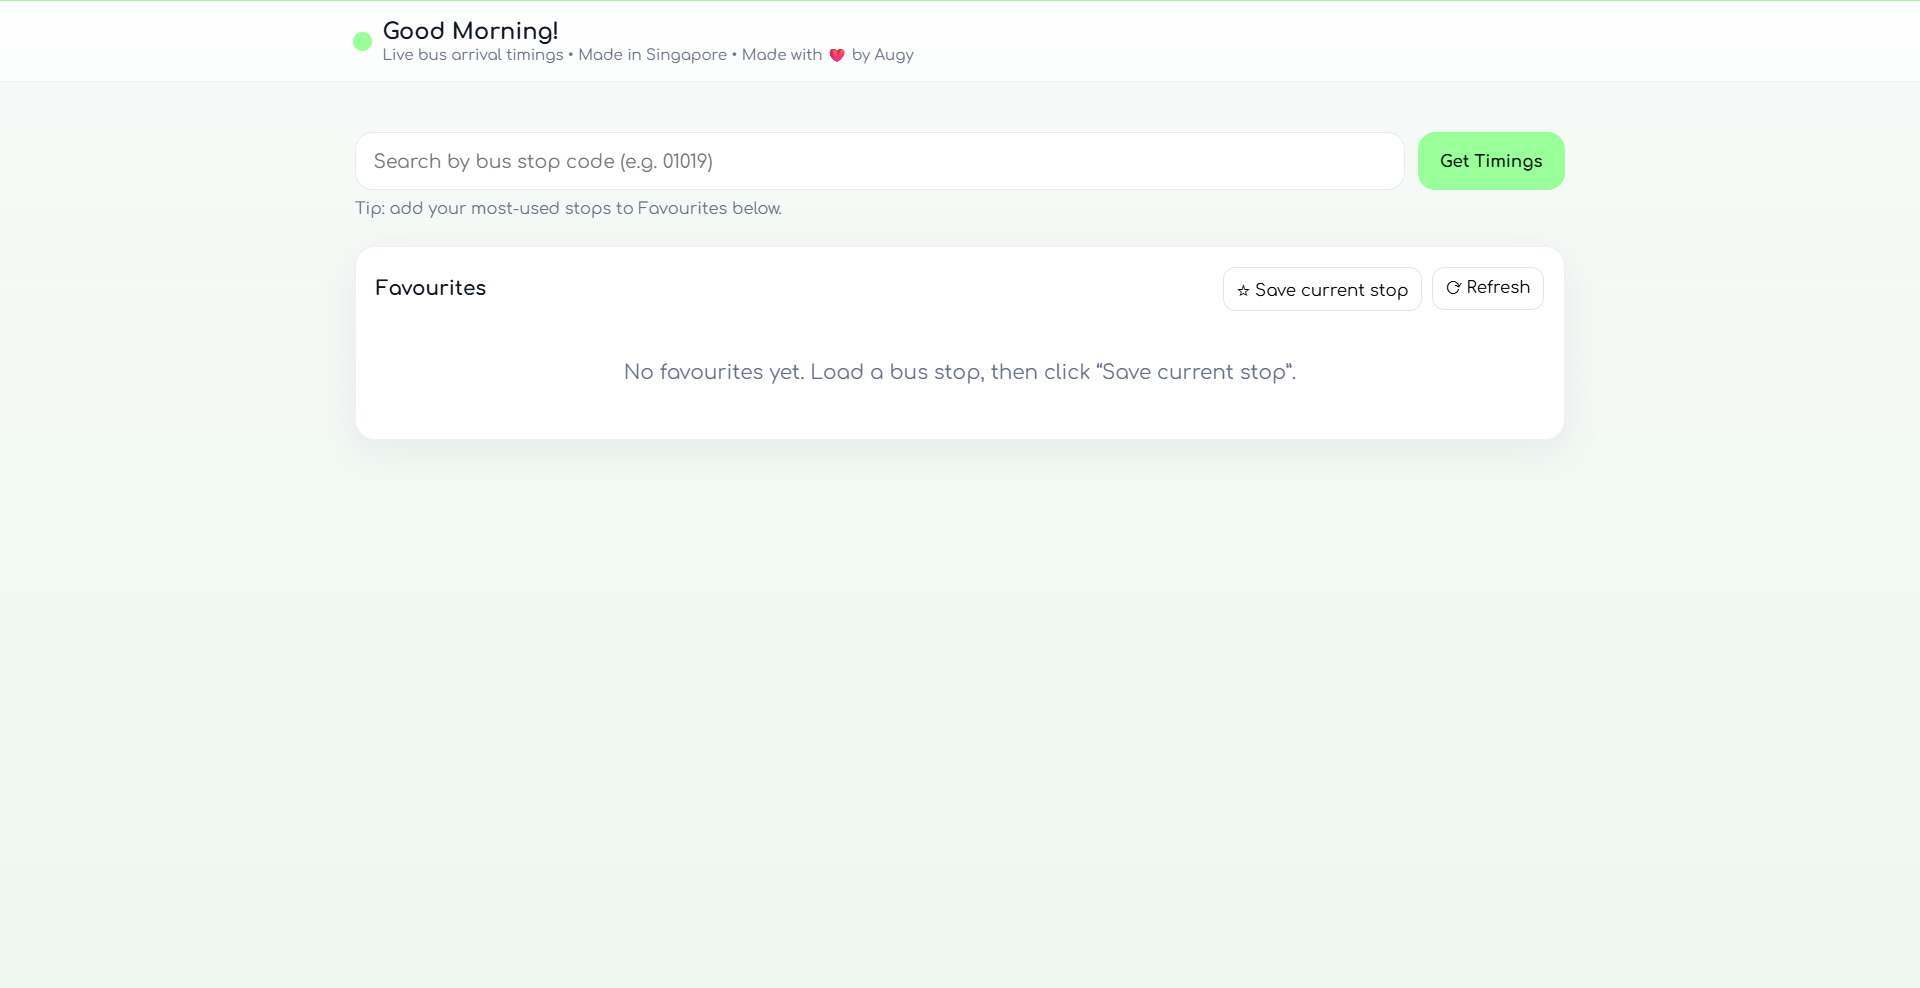
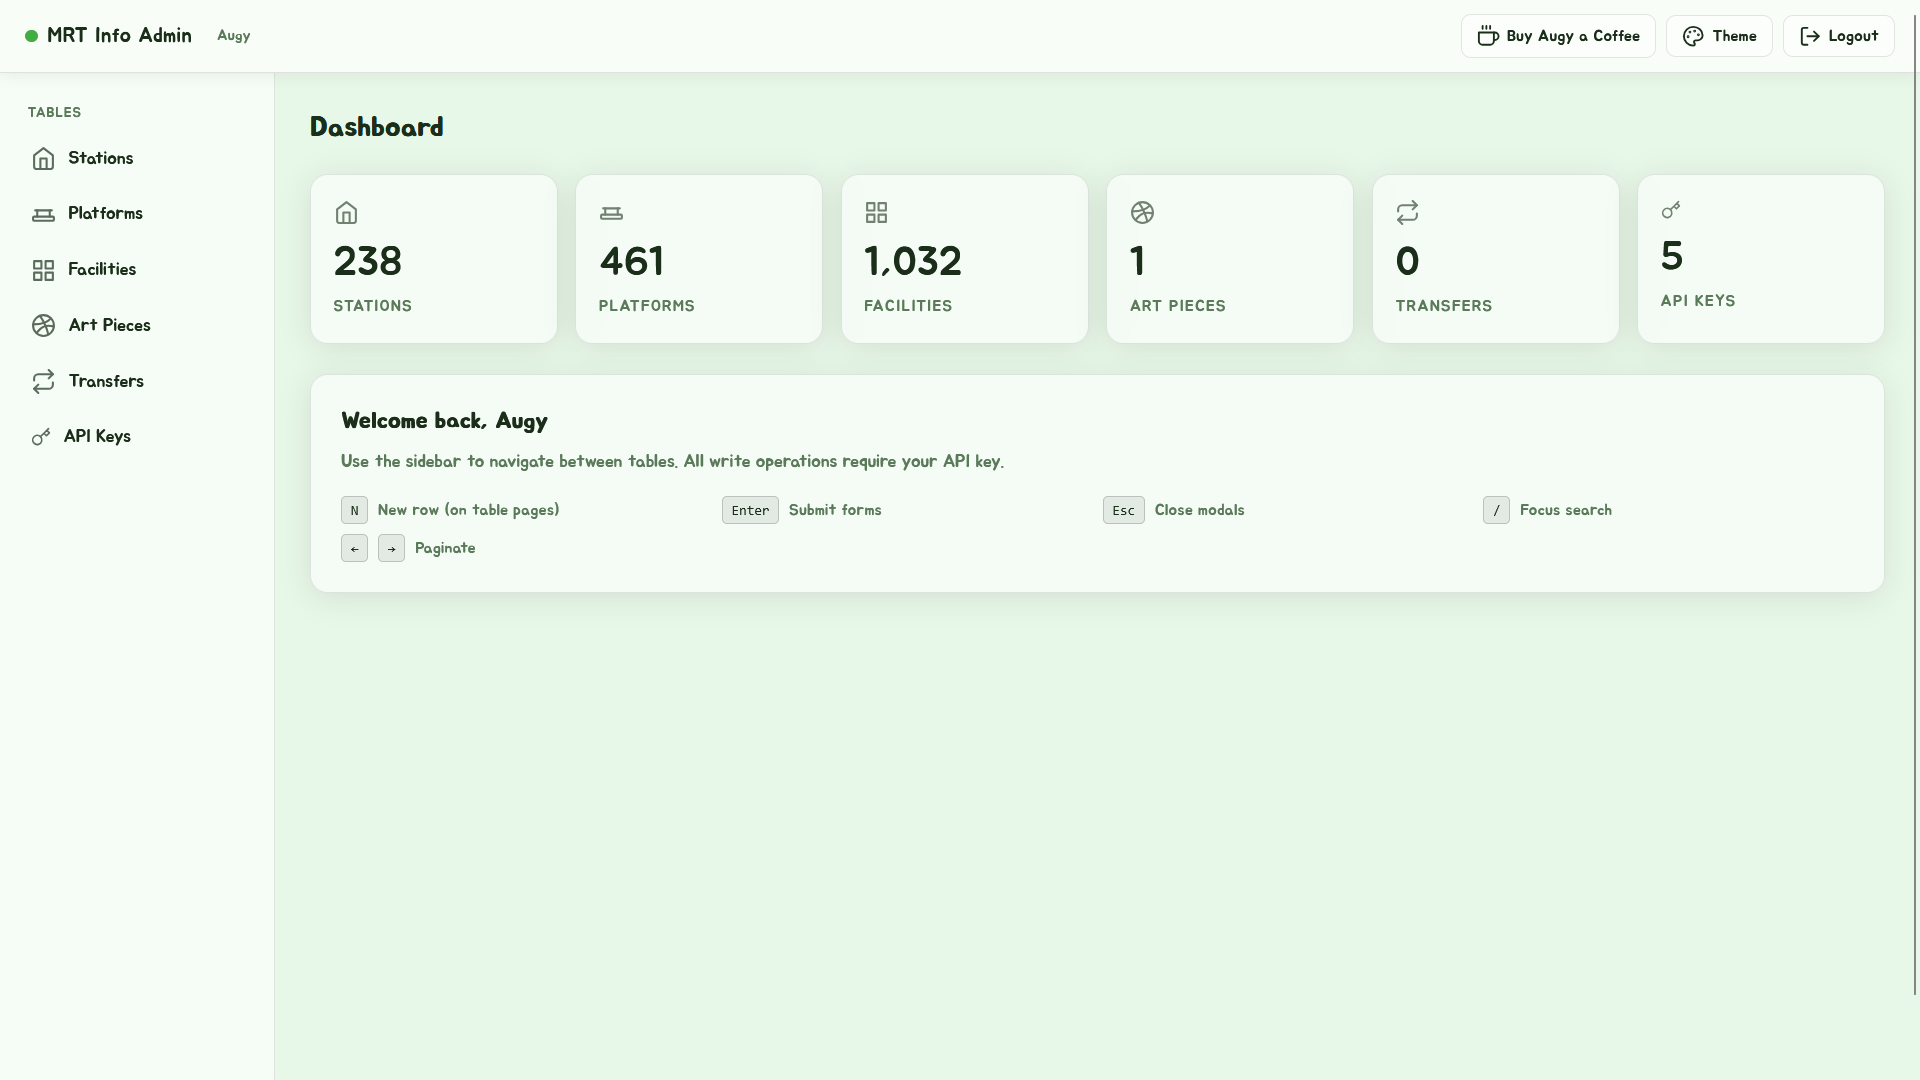
feat: update image assets and references in HTML and manifest files

diff --git a/admin-panel/404.html b/admin-panel/404.html
@@ -30,12 +30,12 @@
     <meta property="og:site_name" content="Admin Panel | Singapore MRT Info" />
 
     <!-- Embed Image -->
-    <link rel="apple-touch-icon" href="/templateicon1.png">
+    <link rel="apple-touch-icon" href="/SGMIA-main.png">
     <link rel="icon" href="/favicon.ico">
     <link rel="shortcut icon" href="/favicon.ico">
     <meta name="twitter:card" content="summary">
-    <meta name="twitter:image:src" content="/templateicon1.png">
-    <meta property="og:image" content="/templateicon1.png"/>
+    <meta name="twitter:image:src" content="/SGMIA-main.png">
+    <meta property="og:image" content="/SGMIA-main.png"/>
 </head>
 
 <body>

diff --git a/admin-panel/dashboard.html b/admin-panel/dashboard.html
@@ -35,12 +35,12 @@
     <meta name="theme-color" content="#ccffcc" />
 
     <!-- Embed Image -->
-    <link rel="apple-touch-icon" href="/templateicon1.png">
+    <link rel="apple-touch-icon" href="/SGMIA-main.png">
     <link rel="icon" href="/favicon.ico">
     <link rel="shortcut icon" href="/favicon.ico">
     <meta name="twitter:card" content="summary">
-    <meta name="twitter:image:src" content="/templateicon1.png">
-    <meta property="og:image" content="/templateicon1.png" />
+    <meta name="twitter:image:src" content="/SGMIA-main.png">
+    <meta property="og:image" content="/SGMIA-main.png" />
 
     <link rel="stylesheet" href="https://cdnjs.cloudflare.com/ajax/libs/font-awesome/6.5.2/css/all.min.css">
     <script defer="" src="https://use.fontawesome.com/releases/v6.5.2/js/all.js"></script>

diff --git a/admin-panel/index.html b/admin-panel/index.html
@@ -35,12 +35,12 @@
     <meta name="theme-color" content="#ccffcc" />
 
     <!-- Embed Image -->
-    <link rel="apple-touch-icon" href="/templateicon1.png">
+    <link rel="apple-touch-icon" href="/SGMIA-main.png">
     <link rel="icon" href="/favicon.ico">
     <link rel="shortcut icon" href="/favicon.ico">
     <meta name="twitter:card" content="summary">
-    <meta name="twitter:image:src" content="/templateicon1.png">
-    <meta property="og:image" content="/templateicon1.png" />
+    <meta name="twitter:image:src" content="/SGMIA-main.png">
+    <meta property="og:image" content="/SGMIA-main.png" />
 
     <link rel="stylesheet" href="https://cdnjs.cloudflare.com/ajax/libs/font-awesome/6.5.2/css/all.min.css">
     <script defer="" src="https://use.fontawesome.com/releases/v6.5.2/js/all.js"></script>

diff --git a/admin-panel/pages/apikeys.html b/admin-panel/pages/apikeys.html
@@ -35,12 +35,12 @@
     <meta name="theme-color" content="#ccffcc" />
 
     <!-- Embed Image -->
-    <link rel="apple-touch-icon" href="/templateicon1.png">
+    <link rel="apple-touch-icon" href="/SGMIA-main.png">
     <link rel="icon" href="/favicon.ico">
     <link rel="shortcut icon" href="/favicon.ico">
     <meta name="twitter:card" content="summary">
-    <meta name="twitter:image:src" content="/templateicon1.png">
-    <meta property="og:image" content="/templateicon1.png" />
+    <meta name="twitter:image:src" content="/SGMIA-main.png">
+    <meta property="og:image" content="/SGMIA-main.png" />
 
     <link rel="stylesheet" href="https://cdnjs.cloudflare.com/ajax/libs/font-awesome/6.5.2/css/all.min.css">
     <script defer="" src="https://use.fontawesome.com/releases/v6.5.2/js/all.js"></script>

diff --git a/admin-panel/pages/artpieces.html b/admin-panel/pages/artpieces.html
@@ -35,12 +35,12 @@
     <meta name="theme-color" content="#ccffcc" />
 
     <!-- Embed Image -->
-    <link rel="apple-touch-icon" href="/templateicon1.png">
+    <link rel="apple-touch-icon" href="/SGMIA-main.png">
     <link rel="icon" href="/favicon.ico">
     <link rel="shortcut icon" href="/favicon.ico">
     <meta name="twitter:card" content="summary">
-    <meta name="twitter:image:src" content="/templateicon1.png">
-    <meta property="og:image" content="/templateicon1.png" />
+    <meta name="twitter:image:src" content="/SGMIA-main.png">
+    <meta property="og:image" content="/SGMIA-main.png" />
 
     <link rel="stylesheet" href="https://cdnjs.cloudflare.com/ajax/libs/font-awesome/6.5.2/css/all.min.css">
     <script defer="" src="https://use.fontawesome.com/releases/v6.5.2/js/all.js"></script>

diff --git a/admin-panel/pages/facilities.html b/admin-panel/pages/facilities.html
@@ -35,12 +35,12 @@
     <meta name="theme-color" content="#ccffcc" />
 
     <!-- Embed Image -->
-    <link rel="apple-touch-icon" href="/templateicon1.png">
+    <link rel="apple-touch-icon" href="/SGMIA-main.png">
     <link rel="icon" href="/favicon.ico">
     <link rel="shortcut icon" href="/favicon.ico">
     <meta name="twitter:card" content="summary">
-    <meta name="twitter:image:src" content="/templateicon1.png">
-    <meta property="og:image" content="/templateicon1.png" />
+    <meta name="twitter:image:src" content="/SGMIA-main.png">
+    <meta property="og:image" content="/SGMIA-main.png" />
 
     <link rel="stylesheet" href="https://cdnjs.cloudflare.com/ajax/libs/font-awesome/6.5.2/css/all.min.css">
     <script defer="" src="https://use.fontawesome.com/releases/v6.5.2/js/all.js"></script>

diff --git a/admin-panel/pages/platforms.html b/admin-panel/pages/platforms.html
@@ -35,12 +35,12 @@
     <meta name="theme-color" content="#ccffcc" />
 
     <!-- Embed Image -->
-    <link rel="apple-touch-icon" href="/templateicon1.png">
+    <link rel="apple-touch-icon" href="/SGMIA-main.png">
     <link rel="icon" href="/favicon.ico">
     <link rel="shortcut icon" href="/favicon.ico">
     <meta name="twitter:card" content="summary">
-    <meta name="twitter:image:src" content="/templateicon1.png">
-    <meta property="og:image" content="/templateicon1.png" />
+    <meta name="twitter:image:src" content="/SGMIA-main.png">
+    <meta property="og:image" content="/SGMIA-main.png" />
 
     <link rel="stylesheet" href="https://cdnjs.cloudflare.com/ajax/libs/font-awesome/6.5.2/css/all.min.css">
     <script defer="" src="https://use.fontawesome.com/releases/v6.5.2/js/all.js"></script>

diff --git a/admin-panel/pages/stations.html b/admin-panel/pages/stations.html
@@ -35,12 +35,12 @@
     <meta name="theme-color" content="#ccffcc" />
 
     <!-- Embed Image -->
-    <link rel="apple-touch-icon" href="/templateicon1.png">
+    <link rel="apple-touch-icon" href="/SGMIA-main.png">
     <link rel="icon" href="/favicon.ico">
     <link rel="shortcut icon" href="/favicon.ico">
     <meta name="twitter:card" content="summary">
-    <meta name="twitter:image:src" content="/templateicon1.png">
-    <meta property="og:image" content="/templateicon1.png" />
+    <meta name="twitter:image:src" content="/SGMIA-main.png">
+    <meta property="og:image" content="/SGMIA-main.png" />
 
     <link rel="stylesheet" href="https://cdnjs.cloudflare.com/ajax/libs/font-awesome/6.5.2/css/all.min.css">
     <script defer="" src="https://use.fontawesome.com/releases/v6.5.2/js/all.js"></script>

diff --git a/admin-panel/pages/transfers.html b/admin-panel/pages/transfers.html
@@ -35,12 +35,12 @@
     <meta name="theme-color" content="#ccffcc" />
 
     <!-- Embed Image -->
-    <link rel="apple-touch-icon" href="/templateicon1.png">
+    <link rel="apple-touch-icon" href="/SGMIA-main.png">
     <link rel="icon" href="/favicon.ico">
     <link rel="shortcut icon" href="/favicon.ico">
     <meta name="twitter:card" content="summary">
-    <meta name="twitter:image:src" content="/templateicon1.png">
-    <meta property="og:image" content="/templateicon1.png" />
+    <meta name="twitter:image:src" content="/SGMIA-main.png">
+    <meta property="og:image" content="/SGMIA-main.png" />
 
     <link rel="stylesheet" href="https://cdnjs.cloudflare.com/ajax/libs/font-awesome/6.5.2/css/all.min.css">
     <script defer="" src="https://use.fontawesome.com/releases/v6.5.2/js/all.js"></script>

diff --git a/admin-panel/sw.js b/admin-panel/sw.js
@@ -29,7 +29,7 @@ const ASSETS = [
   "/pages/transfers.js",
   "/pages/apikeys.js",
 
-  "/templateicon1.png",
+  "/SGMIA-main.png",
   "/favicon.ico",
   "/manifest.json"
 ];